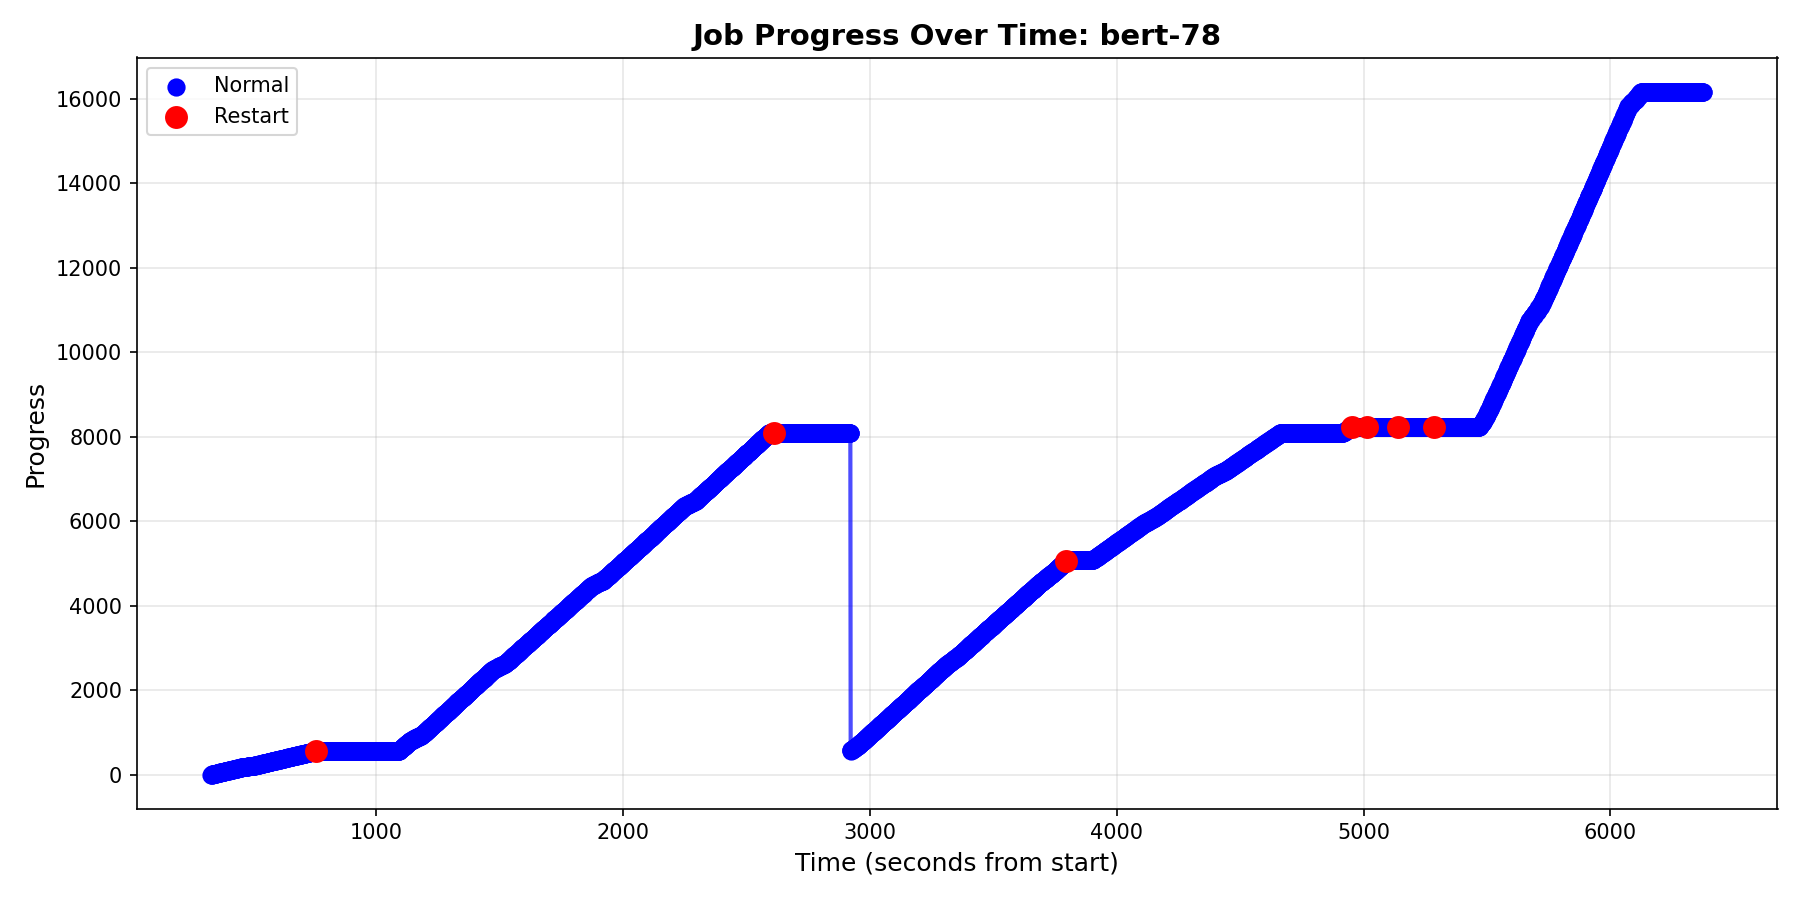
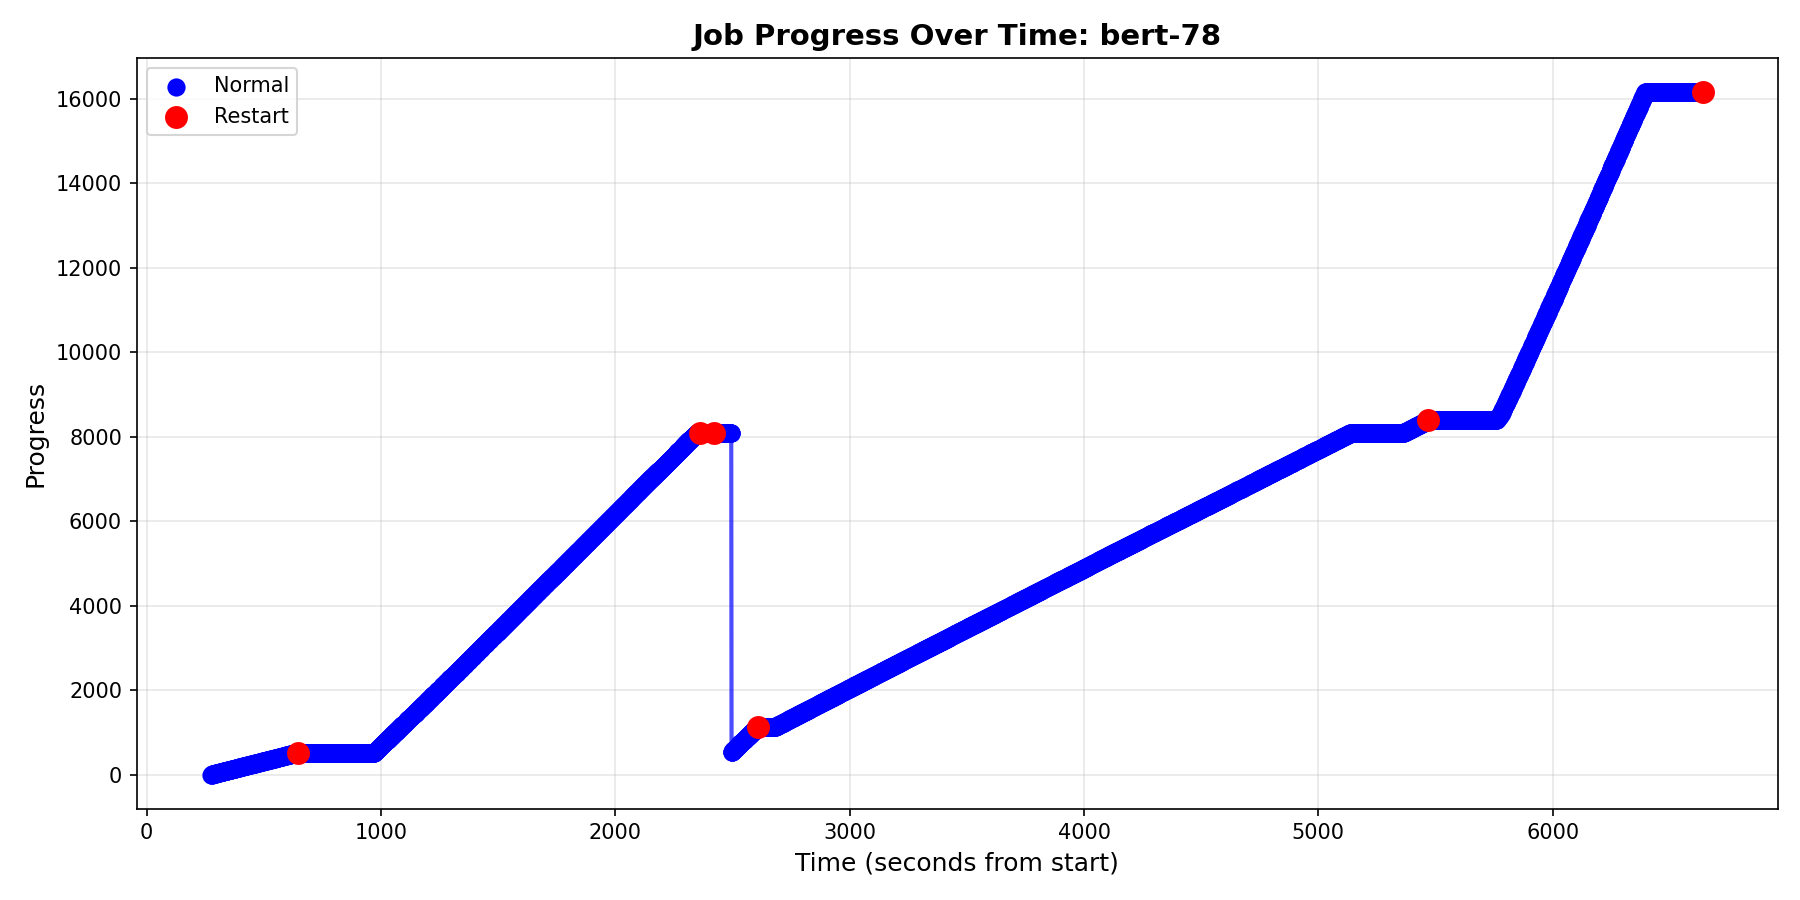
Current change

diff --git a/sched/adaptdl_sched/policy/pollux.py b/sched/adaptdl_sched/policy/pollux.py
@@ -563,8 +563,8 @@ class PolluxPolicy(object):
         idx = self._select_result(states, values, min(len(nodes), desired_nodes))
         LOG.info("\n" + "-" * 80)
         for i, state in enumerate(states):
-            # if i != idx:
-            #     continue
+            if i != idx:
+                continue
             out = "Solution {}:\n".format(i)
             out += "Selected index: {}\n".format(idx)
             out += "{}\n".format(state)
